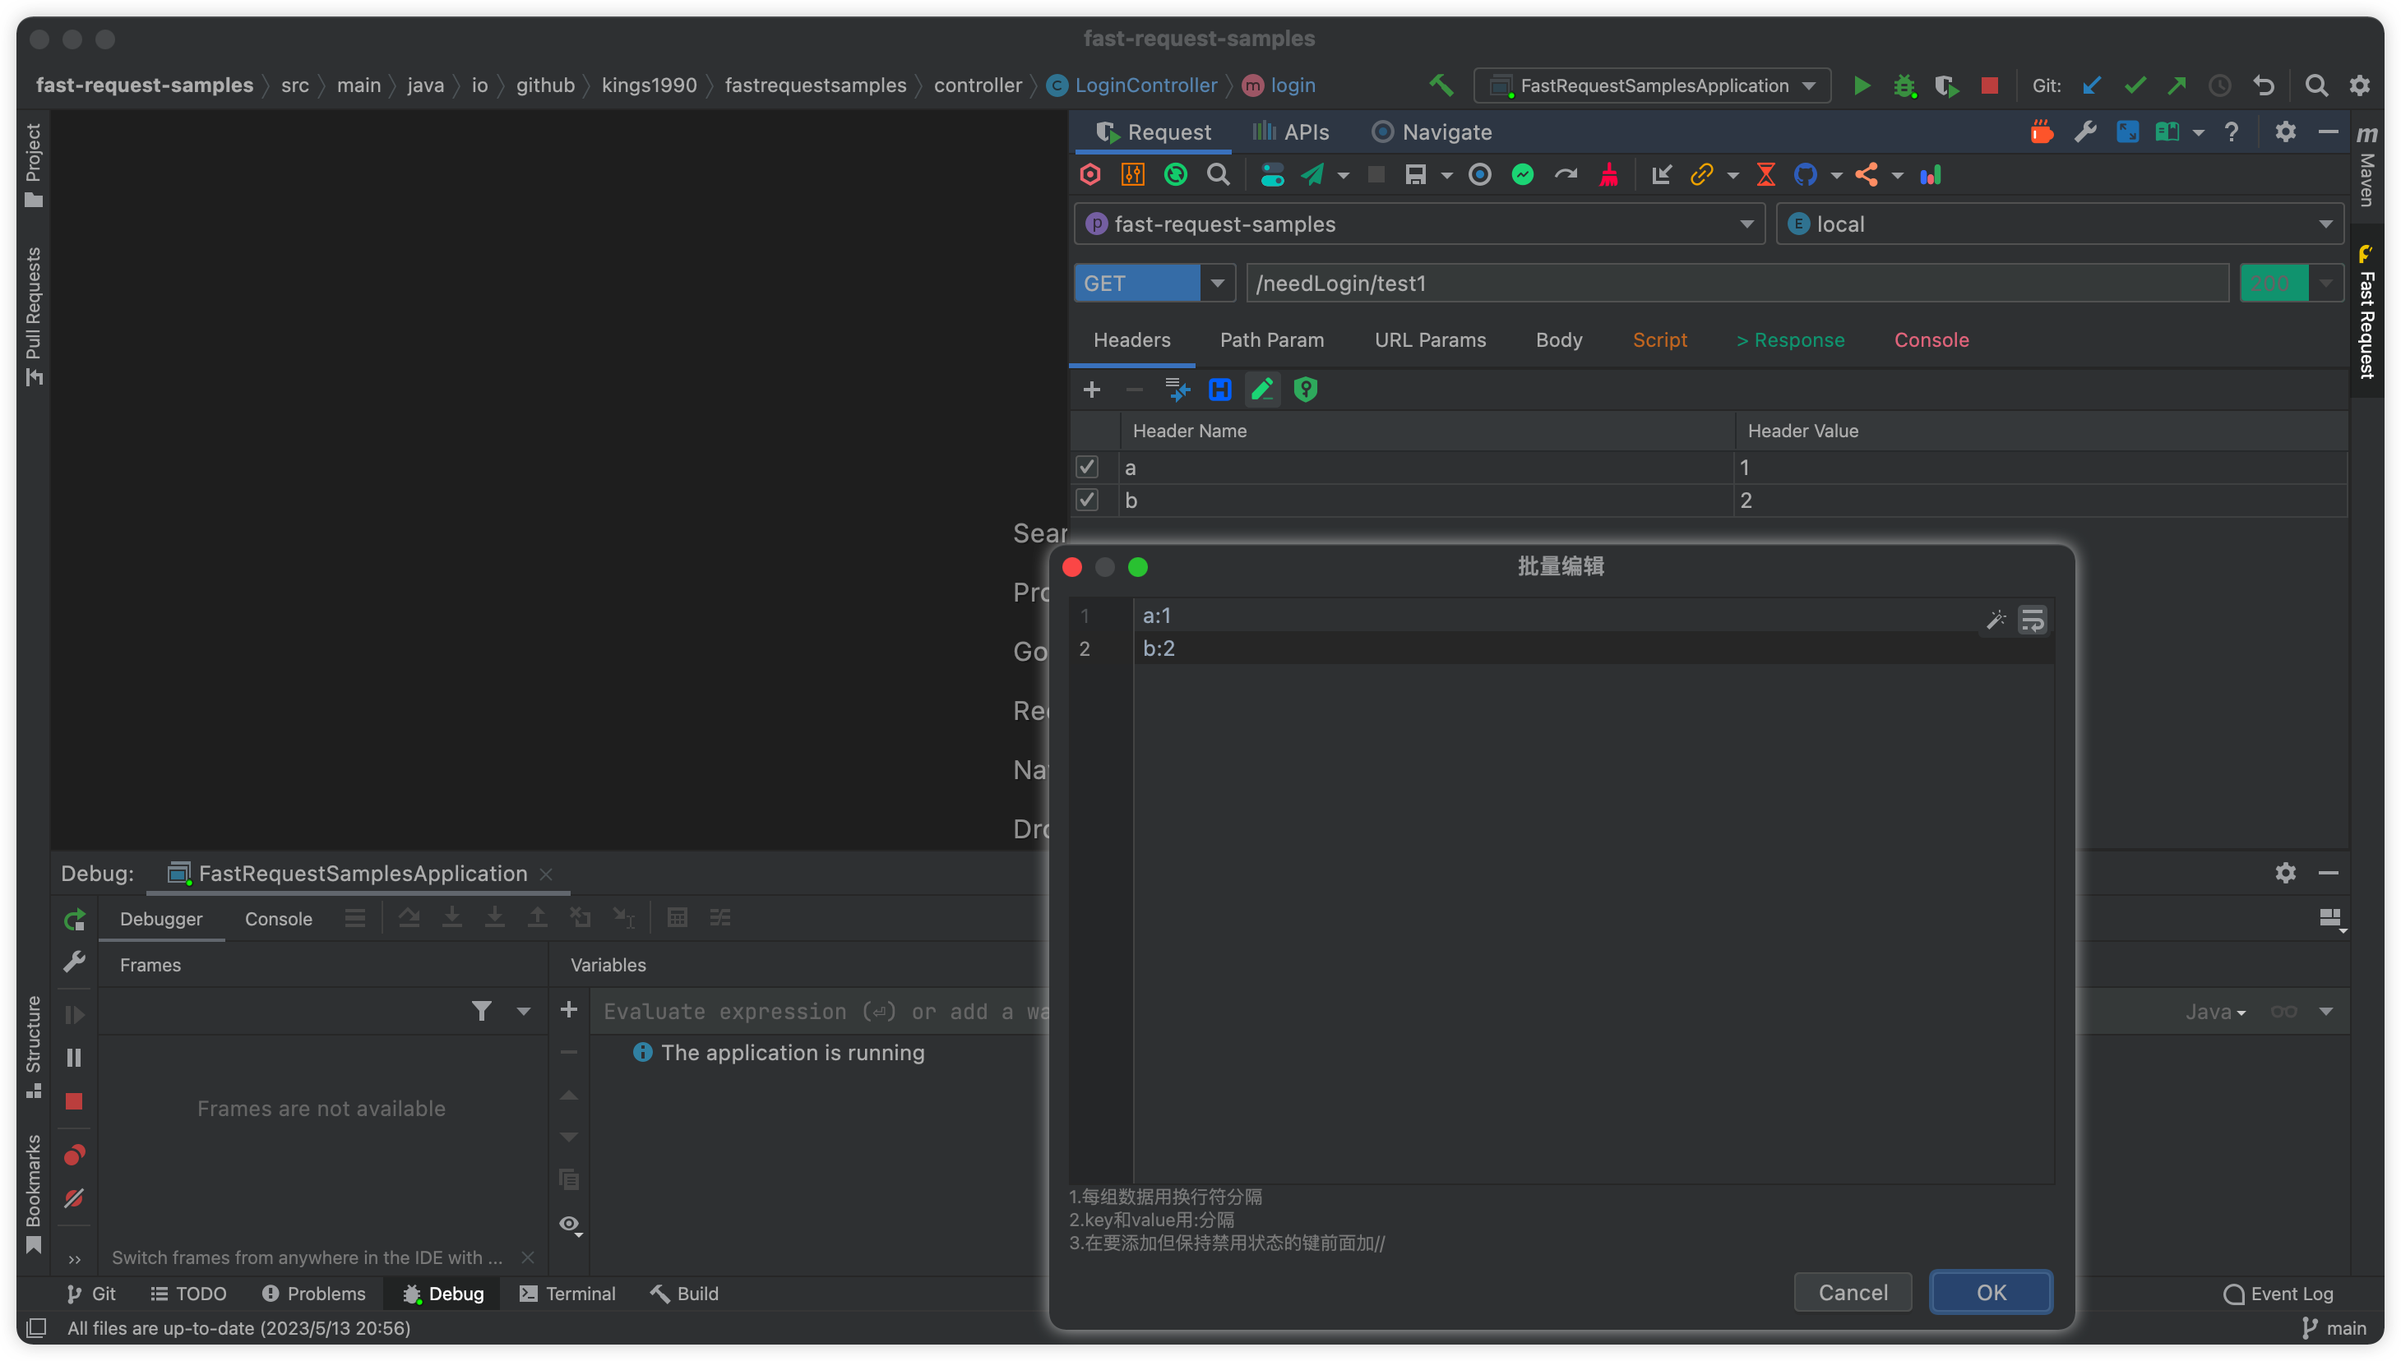
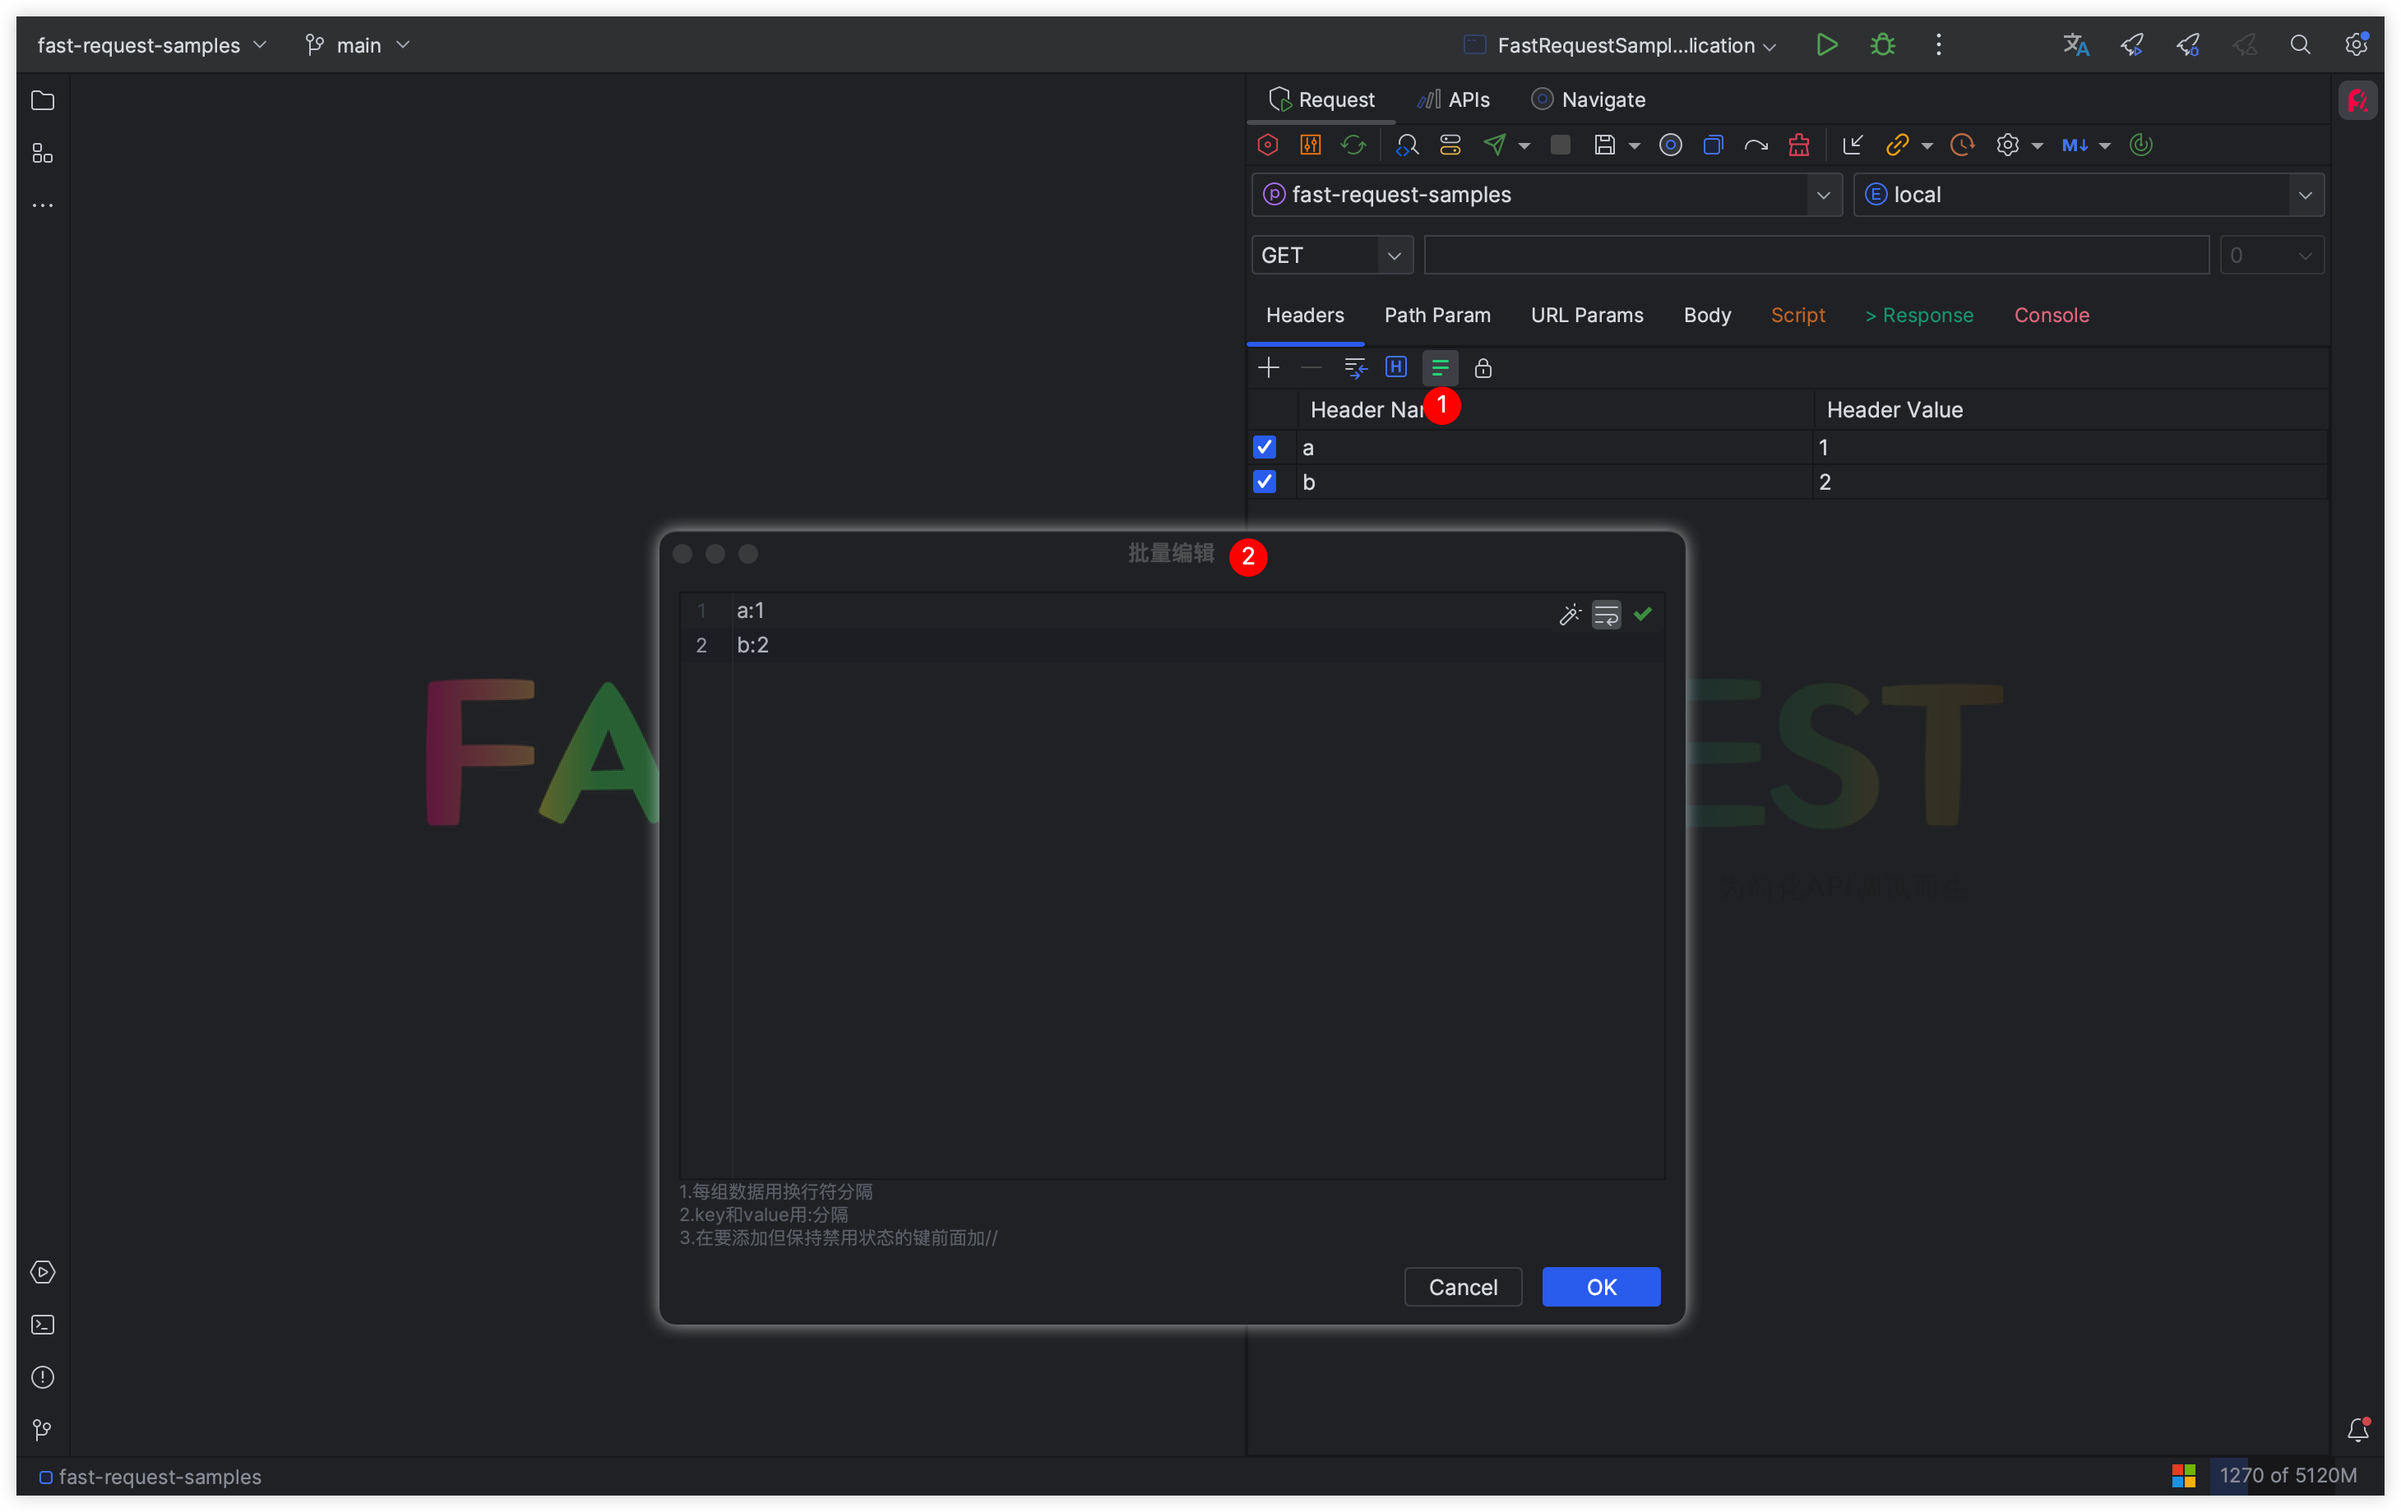
doc

diff --git a/docs/.vuepress/sidebar.ts b/docs/.vuepress/sidebar.ts
@@ -64,6 +64,7 @@ export const enSidebar = sidebar({
         "autoDomain",
         "ai",
         "headerGroup",
+        "bulkEdit",
         "jsonGrammarCheck",
       ],
     },
@@ -145,6 +146,7 @@ export const zhSidebar = sidebar({
         "autoDomain",
         "ai",
         "headerGroup",
+        "bulkEdit",
         "jsonGrammarCheck",
       ],
     },

diff --git a/docs/.vuepress/config.ts b/docs/.vuepress/config.ts
@@ -16,7 +16,7 @@ export default defineUserConfig({
         href: "/fast-request/img/fastRequest.svg",
       },
     ],
-    ["script", { src: "//at.alicdn.com/t/c/font_2601581_l0ynbo29c5j.js" }],
+    ["script", { src: "//at.alicdn.com/t/c/font_2601581_rkwmcsccn5.js" }],
     ["script", { src: "/fast-request/js/baidu.js" }],
   ],
 

diff --git a/docs/en/guide/features/README.md b/docs/en/guide/features/README.md
@@ -43,7 +43,8 @@ The icon in the document corresponds to the button icon in the plugin
 - [<svg class="icon svg-icon" aria-hidden="true"><use xlink:href="#icon-restfulFastRequest"></use></svg> Auto domain](./autoDomain.md)
 - [<svg class="icon svg-icon" aria-hidden="true"><use xlink:href="#icon-openai"></use></svg> OpenAI API Optimising fields](./ai.md)
 - [<svg class="icon svg-icon" aria-hidden="true"><use xlink:href="#icon-headerGroupNew"></use></svg> Header group](./headerGroup.md)
-- [<svg class="icon svg-icon" aria-hidden="true"><use xlink:href="#icon-commonHeader"></use></svg> Common header](./commonHeader.md)
+- [<svg class="icon svg-icon" aria-hidden="true"><use xlink:href="#icon-bulkEdit"></use></svg> Headers batch edit](./bulkEdit.md) 
+- [<svg class="icon svg-icon" aria-hidden="true"><use xlink:href="#icon-commonHeaderNew"></use></svg> Common header](./commonHeader.md)
 - [<svg class="icon svg-icon" aria-hidden="true"><use xlink:href="#icon-lock"></use></svg> Basei auth](./basicAuth.md)
 - [<svg class="icon svg-icon" aria-hidden="true"><use xlink:href="#icon-chrome"></use></svg> Html preview](./htmlPreview.md)
 

diff --git a/docs/guide/features/README.md b/docs/guide/features/README.md
@@ -54,7 +54,8 @@ icon: featuresNew
 - [<svg class="icon svg-icon" aria-hidden="true"><use xlink:href="#icon-restfulFastRequest"></use></svg> 自动域名](./autoDomain.md)
 - [<svg class="icon svg-icon" aria-hidden="true"><use xlink:href="#icon-openai"></use></svg> AI 字段替换](./ai.md)
 - [<svg class="icon svg-icon" aria-hidden="true"><use xlink:href="#icon-headerGroupNew"></use></svg> Headers 分组](./headerGroup.md)
-- [<svg class="icon svg-icon" aria-hidden="true"><use xlink:href="#icon-commonHeader"></use></svg> 常用头参数](./commonHeader.md)
+- [<svg class="icon svg-icon" aria-hidden="true"><use xlink:href="#icon-bulkEdit"></use></svg> Headers批量编辑](./bulkEdit.md)
+- [<svg class="icon svg-icon" aria-hidden="true"><use xlink:href="#icon-commonHeaderNew"></use></svg> 常用头参数](./commonHeader.md)
 - [<svg class="icon svg-icon" aria-hidden="true"><use xlink:href="#icon-lock"></use></svg> Basei auth](./basicAuth.md)
 - [<svg class="icon svg-icon" aria-hidden="true"><use xlink:href="#icon-chrome"></use></svg> Html 预览](./htmlPreview.md)
 

diff --git a/docs/en/guide/features/bulkEdit.md b/docs/en/guide/features/bulkEdit.md
@@ -1,0 +1,13 @@
+# Headers batch edit
+
+Version required: <Badge text="2023.1.6" />
+
+<svg class="icon svg-icon" aria-hidden="true"><use xlink:href="#icon-bulkEdit"></use></svg> This feature allows importing header parameters directly from the browser's copy for use in the plugin.
+
+```
+1.Rows are separated by new lines
+2.Keys and values are separated by :
+3.Prepend // to any row you want to add but keep disabled
+```
+
+![batchEdit](/img/2023.1.6/batchEdit_en.png)

diff --git a/docs/guide/history.md b/docs/guide/history.md
@@ -43,6 +43,7 @@ feat: <Badge text="新功能" type="tip"/> <span>&nbsp;&nbsp;&nbsp;&nbsp;</span>
 - <Badge text="脚本片段插入优化" type="info"/>
 - <Badge text="table与textarea优化" type="info"/>
 - <Badge text="自动域名解析优化" type="info"/>
+- <Badge text="全屏操作" type="info"/>  
 - <Badge text="批量导出api文档" type="danger"/>
 - <Badge text="历史请求回显问题" type="danger"/>
 

diff --git a/docs/guide/whatsnew.md b/docs/guide/whatsnew.md
@@ -47,6 +47,7 @@ feat: <Badge text="新功能" type="tip"/> <span>&nbsp;&nbsp;&nbsp;&nbsp;</span>
 - <Badge text="脚本片段插入优化" type="info"/>
 - <Badge text="table与textarea优化" type="info"/>
 - <Badge text="自动域名解析优化" type="info"/>
+- <Badge text="全屏操作" type="info"/>  
 - <Badge text="批量导出api文档" type="danger"/>
 - <Badge text="历史请求回显问题" type="danger"/>
 

diff --git a/docs/en/guide/history.md b/docs/en/guide/history.md
@@ -44,6 +44,7 @@ More details -> [Teamwork support](./teamwork.md)
 - <Badge text="Optimize the insertion of script snippets" type="info"/>
 - <Badge text="Optimize table and textarea" type="info"/>
 - <Badge text="Optimize automatic domain parse" type="info"/>
+- <Badge text="FullScreen" type="info"/>  
 - <Badge text="Batch export api doc" type="danger"/>
 - <Badge text="History request echo data" type="danger"/>
 

diff --git a/docs/en/guide/whatsnew.md b/docs/en/guide/whatsnew.md
@@ -46,6 +46,7 @@ More details -> [Teamwork support](./teamwork.md)
 - <Badge text="Optimize the insertion of script snippets" type="info"/>
 - <Badge text="Optimize table and textarea" type="info"/>
 - <Badge text="Optimize automatic domain parse" type="info"/>
+- <Badge text="FullScreen" type="info"/>  
 - <Badge text="Batch export api doc" type="danger"/>
 - <Badge text="History request echo data" type="danger"/>
 

diff --git a/docs/guide/features/bulkEdit.md b/docs/guide/features/bulkEdit.md
@@ -1,0 +1,13 @@
+# Headers批量编辑
+
+版本要求: <Badge text="2023.1.6" />
+
+<svg class="icon svg-icon" aria-hidden="true"><use xlink:href="#icon-bulkEdit"></use></svg> 此功能可以实现从浏览器直接复制header参数导入到插件
+
+```
+1.每组数据用换行符分隔
+2.key和value用:分隔
+3.在要添加但保持禁用状态的键前面加//
+```
+
+![batchEdit](/img/2023.1.6/batchEdit.png)
